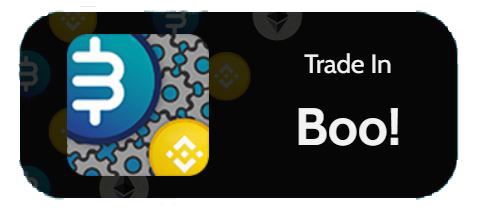
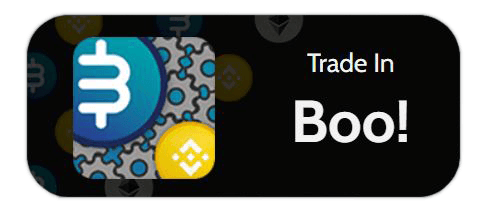
change example

diff --git a/boowidgets.js b/boowidgets.js
@@ -1,2 +1,2 @@
 // BooWidgets 1.0 by Bumoonio https://bumoon.io
-!function(){var e=document.getElementsByTagName("boowidget"),t=e[0].innerHTML,o=document.createElement("link");o.rel="stylesheet",o.href="https://fonts.googleapis.com/css?family=Cabin:300,400,700",document.getElementsByTagName("head")[0].appendChild(o);e[0].addEventListener("click",(function(e){window.open("https://boo.bumoon.io/swap?to="+t,"_blank")}));e[0].innerHTML='<div id="BooWidgetSelector" style="cursor:pointer;background-blend-mode:overlay;display:flex;text-align:center;width:200px;height:85px;padding:10px;margin:auto;background-image:url(https://raw.githubusercontent.com/bumoonio/BooWidgets/master/boowidget.png),linear-gradient(rgba(0,0,0,0.8),rgba(0,0,0,0.8));background-repeat:no-repeat;background-size:cover;border-radius:20px"><boologo style="background-image:url(https://raw.githubusercontent.com/bumoonio/BooWidgets/master/boologo.png);margin:auto;width:65px;height:65px;background-size:contain;background-repeat:no-repeat"></boologo><inntertext style="font-size:24px;margin-left:auto;align-self:center;width:80px;color:#f2f2f2"><tradein style="font-size:12px;display:inherit;font-family:cabin">Trade In</tradein><bootext style="font-family:cabin;font-weight:bold">Boo!</bootext></inntertext></div>'}();
+!function(){var e=document.getElementsByTagName("boowidget"),t=e[0].innerHTML,o=document.createElement("link");o.rel="stylesheet",o.href="https://fonts.googleapis.com/css?family=Cabin:300,400,700",document.getElementsByTagName("head")[0].appendChild(o);e[0].addEventListener("click",(function(e){window.open("https://boo.bumoon.io/swap?to="+t,"_blank")}));e[0].innerHTML='<div id="BooWidgetSelector" style="cursor:pointer;border:1px solid grey;background-blend-mode:overlay;display:flex;text-align:center;width:200px;height:85px;padding:10px;margin:auto;background-image:url(https://raw.githubusercontent.com/bumoonio/BooWidgets/master/boowidget.png),linear-gradient(rgba(0,0,0,0.8),rgba(0,0,0,0.8));background-repeat:no-repeat;background-size:cover;border-radius:20px"><boologo style="background-image:url(https://raw.githubusercontent.com/bumoonio/BooWidgets/master/boologo.png);margin:auto;width:65px;height:65px;background-size:contain;background-repeat:no-repeat"></boologo><inntertext style="font-size:24px;margin-left:auto;align-self:center;width:80px;color:#f2f2f2;margin-top:auto"><tradein style="font-size:12px;display:inherit;font-family:cabin;line-height:0.3">Trade In</tradein><bootext style="font-family:cabin;font-weight:bold;font-size:27px!important">Boo!</bootext></inntertext></div>'}();

diff --git a/README.md b/README.md
@@ -38,7 +38,7 @@ This repository contains Javascript library in purpose to embed "Trade in Boo!" 
 ## How to use?
 Append this tag on your website
 ```js
-<script src="https://cdn.jsdelivr.net/gh/bumoonio/BooWidgets/boowidgets.js"></script>
+<script src="https://cdn.jsdelivr.net/gh/bumoonio/BooWidgets/Boowidgets.js"></script>
 ```
 Use this tag to generate BooWidgets
 ```html
